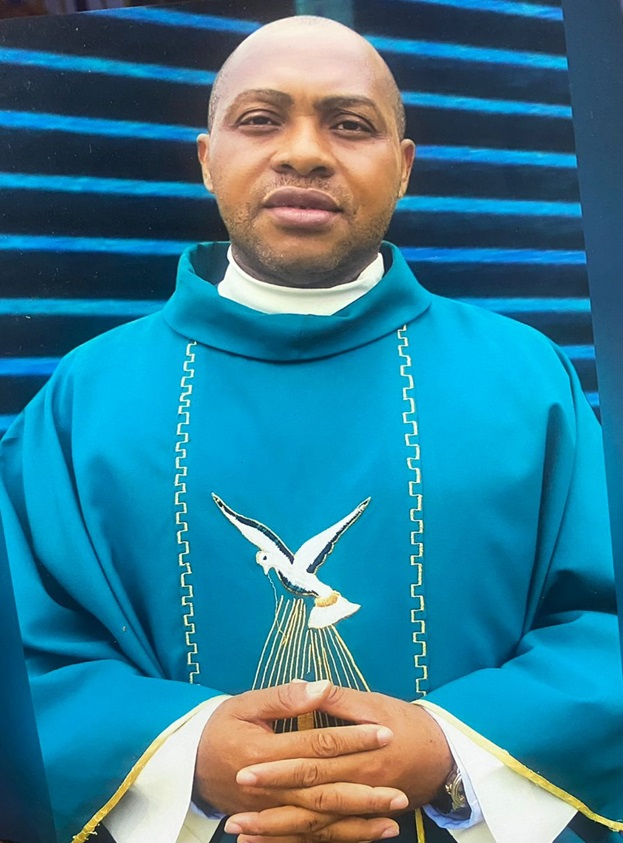
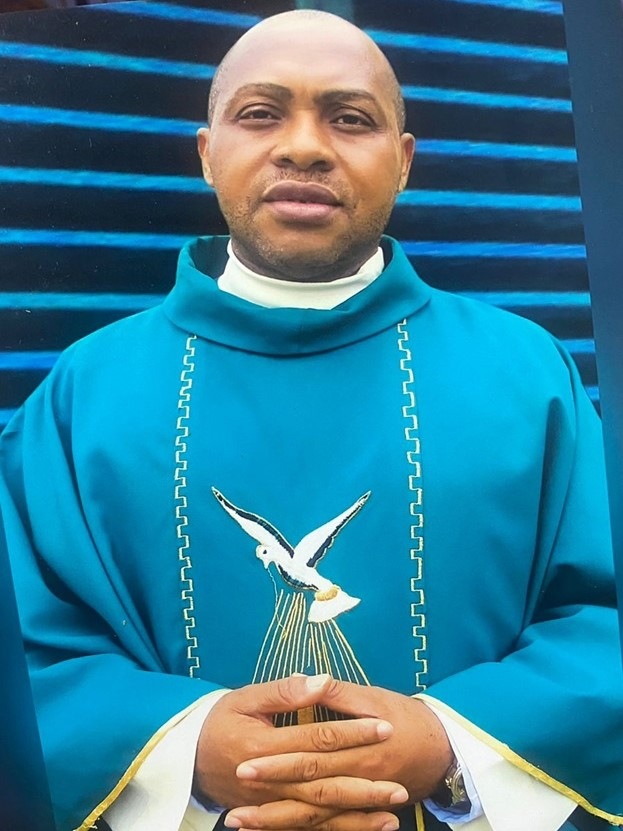
bug fix : priest photo update, information centre update

diff --git a/index.html b/index.html
@@ -45,7 +45,7 @@
         <ul>
           <li><a class="nav-link scrollto active" href="index.html">Home</a></li>
           <li><a class="nav-link scrollto" href="#about">Daily Readings</a></li>
-          <li><a class="nav-link scrollto" href="#services">Parish Events</a></li>
+          <li><a class="nav-link scrollto" href="#services">Information</a></li>
           <li><a class="nav-link scrollto " href="#portfolio">Photo Gallery</a></li>
           <li><a class="nav-link scrollto" href="#team">Priest</a></li>
           <li class="dropdown"><a href="#"><span>Ministry</span> <i class="bi bi-chevron-down"></i></a>
@@ -54,15 +54,16 @@
               <li class="dropdown"><a href="#"><span>Zones</span> <i class="bi bi-chevron-right"></i></a>
                 <ul>
                   <li><a href="#">Zone A</a></li>
-                  <li><a href="#">Zone B</a></li>
+                  <li><a href="#">B Zone</a></li>
                   <li><a href="#">Zone C</a></li>
                   <li><a href="#">Zone D</a></li>
                   <li><a href="#">Zone E</a></li>
+                  <li><a href="#">Zone F</a></li>
                 </ul>
               </li>
               <li><a href="#">Lay Apostolic Groups</a></li>
                   <li><a href="#">Faith formation</a></li>
-                  <li><a href="#">Fellowship</a></li>
+                  <li><a href="#">Communities</a></li>
                   <li><a href="#">Spiritual counseling</a></li>
                   <li><a href="#">Evangelism</a></li>
                   <li><a href="#">Parishoners</a></li>
@@ -88,15 +89,15 @@
 
     <div class="container" data-aos="zoom-out" data-aos-delay="100">
       <div class="row p-2">
-        <div class="col-xl-8 col-lg-8 mb-4">
+        <div class="col-xl-8 col-lg-8 mb-4 p-10">
           <h1>Welcome to St. Francis Catholic Church Benin City.</h1>
-          <h2>Lord make me an Instrument of your Peace</h2>
+          <h2>Constant And Preserving Recourse To Jesus In The Blessed Sacrament In Union with Mary, Queen Of The Most Holy Rosary.</h2>
           <a href="#about" class="btn-get-started scrollto"> <i class="bi bi-play"></i> Livestream</a>
           <a href="#about" class="btn-get-started scrollto"> <i class="bi bi-play"></i> Videos</a>
         </div>
         <div class="col-xl-4 col-lg-4 shadow-lg rounded p-3 bg-gradient flex text-center text" data-aos="fade-left" data-aos-delay="100">
           <h2 style="font-size: 28px;"><i class="fa-solid fa-clock text-white"></i> Sunday Masses: <br>6:30am | 9:00 am</h2><br>
-          <h2 style="font-size: 28px;"><i class="fa-solid fa-clock text-white"></i> Weekday Masses: <br>6:30am | 12:30pm | 6:00pm</h2>
+          <h2 style="font-size: 28px;"><i class="fa-solid fa-clock text-white"></i> Weekday Masses: <br>6:30am | 12:30pm | 5:30pm</h2>
           
         </div>
       </div>
@@ -108,13 +109,11 @@
   <main id="main">
 
 
-
     <!-- ======= About Section ======= -->
     <section id="about" class="about section-bg">
       <div class="container" data-aos="fade-up">
 
         <div class="row no-gutters">
-          
           <div class="content col-lg-6 col-sm-12 d-flex align-items-stretch">
             <div class="content">
               <h3>Our History</h3>
@@ -127,42 +126,25 @@
               </div> 
           </div>
           <div class="content col-lg-6 col-sm-12d-flex align-items-stretch p-3">
-            <div class="slideshow-container">
-              <!-- Full-width images with number and caption text -->
-              <div class="mySlides fade">
-                <div class="numbertext">1 / 3</div>
-                <img src="assets/img/Picture2.png" style="width:100%">
-                <div class="text-1">Image one</div>
+            
+              <div class="portfolio-details-slider swiper">
+                <div class="swiper-wrapper align-items-center">
+  
+                  <div class="swiper-slide">
+                    <img src="assets/img/Picture2.png" style="width: 100%">
+                  </div>
+  
+                  <div class="swiper-slide">
+                    <img src="assets/img/Picture3.png" style="width:100%">
+                  </div>
+  
+                  <div class="swiper-slide">
+                    <img src="assets/img/Picture6b.png" style="width:100%">
+                  </div>
+                </div>
+                <div class="swiper-pagination"></div>
               </div>
             
-              <div class="mySlides fade">
-                <div class="numbertext">2 / 3</div>
-                <img src="assets/img/Picture3.png" style="width:100%">
-                <div class="text-1">Image Two</div>
-              </div>
-            
-              <div class="mySlides fade">
-                <div class="numbertext">3 / 3</div>
-                <img src="assets/img/Picture6b.png" style="width:100%">
-                <div class="text-1">Image three</div>
-              </div>
-            
-              <!-- Next and previous buttons -->
-              <a class="prev" onclick="plusSlides(-1)">&#10094;</a>
-              <a class="next" onclick="plusSlides(1)">&#10095;</a>
-            </div>
-            <br>
-            
-            <!-- The dots/circles -->
-            <div style="text-align:center">
-              <span class="dot" onclick="currentSlide(1)"></span>
-              <span class="dot" onclick="currentSlide(2)"></span>
-              <span class="dot" onclick="currentSlide(3)"></span>
-            </div>
-          </div>
-          </div>
-          <!-- End .content-->
-          </div>
           </div>
           
         </div>
@@ -227,7 +209,7 @@
           <div class="col-lg-12 d-flex justify-content-center">
             <ul id="portfolio-flters">
               <li data-filter="*" class="filter-active">All</li>
-              <li data-filter=".filter-app">Mass</li>
+              <li data-filter=".filter-app">Sunday Mass</li>
               <li data-filter=".filter-card">A Day with the Lord</li>
               <li data-filter=".filter-web">First Friday</li>
             </ul>
@@ -361,9 +343,7 @@
               </div>
             </div>
           </div>
-
         </div>
-
       </div>
     </section><!-- End Portfolio Section -->
 
@@ -381,35 +361,36 @@
             <div class="icon-box" data-aos="fade-up" data-aos-delay="100">
               <i class="fa-solid fa-church"></i>
               <h4><a href="#">Mass Schedule</a></h4>
-              <p>Sundays & Weekdays - 6:30am | Afternoon mass - 12:30am</p>
+              <p>Sundays & Weekdays - 6:30am | Afternoon mass - 12:30pm</p>
             </div>
           </div>
           <div class="col-md-6 mt-4 mt-md-0">
             <div class="icon-box" data-aos="fade-up" data-aos-delay="200">
               <i class="fa-solid fa-church"></i>
               <h4><a href="#">Parish Office Hours</a></h4>
-              <p>Tuesdays : 8am - 12noon</p>
+              <p>Monday - Friday : 1pm, 5pm - 6pm</p>
             </div>
           </div>
           <div class="col-md-6 mt-4 mt-md-0">
             <div class="icon-box" data-aos="fade-up" data-aos-delay="300">
-              <i class="bi bi-book"></i>
-              <h4><a href="#">Catechist Classes</a></h4>
-              <p>Monday, wednesday and Friday by 4pm</p>
+              <i class="fa-solid fa-church"></i>
+              <h4><a href="#">Priest Office Hours</a></h4>
+              <p>Tuesday, Wednesday, Thursday 9am-12:30pm</p>
             </div>
           </div>
+      
           <div class="col-md-6 mt-4 mt-md-0">
             <div class="icon-box" data-aos="fade-up" data-aos-delay="400">
               <i class="fa-solid fa-person-praying"></i>
               <h4><a href="#">Confession</a></h4>
-              <p>After every morning mass & saturdays</p>
+              <p>After every morning mass, Saturdays (5pm-6pm)</p>
             </div>
           </div>
           <div class="col-md-6 mt-4 mt-md-0">
             <div class="icon-box" data-aos="fade-up" data-aos-delay="500">
-              <i class="fa-solid fa-hands-praying"></i>
-              <h4><a href="#">Holy hour/ Benediction</a></h4>
-              <p>Every sunday - 5pm  </p>
+              <i class="bi bi-book"></i>
+              <h4><a href="#">Catechism Classes</a></h4>
+              <p>Friday, Saturday, Sunday 3:30pm-5:30pm</p>
             </div>
           </div>
           <div class="col-md-6 mt-4 mt-md-0">
@@ -423,7 +404,7 @@
             <div class="icon-box" data-aos="fade-up" data-aos-delay="600">
               <i class="bi bi-people"></i>
               <h4><a href="#">Marriage Classes</a></h4>
-              <p>Tuesday and Wednesday by 4pm</p>
+              <p>Every Friday and Saturday by 4:30pm</p>
             </div>
           </div>
           <div class="col-md-6 mt-4 mt-md-0">
@@ -436,7 +417,7 @@
         </div>
 
       </div>
-    </section><!-- End Services Section -->
+    </section><!-- End Information -->
     
  <!-- ======= Homilies Section ======= -->
  <section id="testimonials" class="testimonials">
@@ -477,7 +458,7 @@
               </p>
             </div>
           </div>
-        </div><!-- End testimonial item -->
+        </div><!-- End homily item -->
 
         <div class="swiper-slide">
           <div class="testimonial-wrap">
@@ -492,7 +473,7 @@
               </p>
             </div>
           </div>
-        </div><!-- End testimonial item -->
+        </div><!-- End homily item -->
 
         <div class="swiper-slide">
           <div class="testimonial-wrap">
@@ -507,7 +488,7 @@
               </p>
             </div>
           </div>
-        </div><!-- End testimonial item -->
+        </div><!-- End homily item -->
 
         <div class="swiper-slide">
           <div class="testimonial-wrap">
@@ -522,17 +503,17 @@
               </p>
             </div>
           </div>
-        </div><!-- End testimonial item -->
+        </div><!-- End homily item -->
 
       </div>
       <div class="swiper-pagination"></div>
     </div>
 
   </div>
-</section><!-- End Testimonials Section -->
+</section><!-- End Homilies -->
 
 
- <!-- ======= Tabs Section ======= -->
+ <!-- ======= Councils ======= -->
  <section id="tabs" class="tabs">
   <div class="container" data-aos="fade-up">
 
@@ -672,7 +653,7 @@
     </div>
 
   </div>
-</section><!-- End Tabs Section -->
+</section><!-- End councils -->
 
    
 
@@ -694,7 +675,7 @@
               <h4>Calling all gentlemen of faith! Have you heard about our Catholic Men's Organization? <br>
                 <br>Overall, the Catholic Men's Organization plays a vital role in fostering a community of faith, service, and fraternity among men within the Church. By empowering men to live out their faith with courage and integrity, the organization contributes to the building of a stronger, more vibrant Catholic community grounded in love, compassion, and solidarity.</h4> 
               <div class="btn-wrap">
-                <a href="#" class="btn-buy">Read More</a>
+                <a href="#" class="btn-buy">Join</a>
               </div>
             </div>
           </div>
@@ -705,7 +686,7 @@
               <h4>The Catholic Women's Organization (CWO) is a vibrant and integral part of the Catholic Church community, comprising women who are dedicated to serving their faith, their families, and their communities. Founded on the principles of faith, service, and sisterhood, the CWO provides a platform for women to come together in fellowship, prayer, and action.
                 <br> The Catholic Women's Organization stands as a testament to the power of women's faith, dedication, and service in building a better world guided by the principles of love, compassion, and justice.</h4> 
               <div class="btn-wrap">
-                <a href="#" class="btn-buy">Read More</a>
+                <a href="#" class="btn-buy">Join</a>
               </div>
             </div>
           </div>
@@ -716,7 +697,7 @@
               <h4>The Catholic Youth Organization (CYON) is a dynamic and vibrant organization within the Catholic Church that aims to engage young people in their faith, empower them to live as disciples of Jesus Christ, and inspire them to become leaders in their communities.<br>
                 <br> Overall, the Catholic Youth Organization plays a vital role in nurturing the faith, leadership, and service of young Catholics, empowering them to live out their faith authentically and to be agents of positive change in the world.</h4> 
               <div class="btn-wrap">
-                <a href="#" class="btn-buy">Read More</a>
+                <a href="#" class="btn-buy">Join</a>
               </div>
             </div>
           </div>
@@ -724,7 +705,7 @@
         </div>
 
       </div>
-    </section><!-- End Pricing Section -->
+    </section><!-- Organization Section  -->
 
     <!-- ======= Frequently Asked Questions Section ======= -->
     <section id="faq" class="faq">
@@ -800,20 +781,16 @@
 
         <div class="section-title">
           <h2>Priests</h2>
-          <p>Magnam dolores commodi suscipit. Necessitatibus eius consequatur ex aliquid fuga eum quidem. Sit sint consectetur velit. Quisquam quos quisquam cupiditate. Et nemo qui impedit suscipit alias ea.</p>
         </div>
-
         <div class="row">
-
           <div class="col-lg-4 col-md-6 d-flex align-items-stretch">
             <div class="member" data-aos="fade-up" data-aos-delay="100">
               <div class="member-img">
                 <img src="assets/img/obinyan.jpg" class="img-fluid" alt="">
-                <div class="social">
-                  <a href=""><i class="bi bi-twitter"></i></a>
-                  <a href=""><i class="bi bi-facebook"></i></a>
-                  <a href=""><i class="bi bi-instagram"></i></a>
-                  <a href=""><i class="bi bi-linkedin"></i></a>
+                <div class="social">                
+                  <a href="https://shorturl.at/PriAO"><i class="bi bi-facebook"></i></a>
+                  <a href="https://shorturl.at/z8Hip"><i class="bi bi-instagram"></i></a>
+                  <a href="https://shorturl.at/SjKsg"><i class="bi bi-linkedin"></i></a>
                 </div>
               </div>
               <div class="member-info">
@@ -826,7 +803,7 @@
           <div class="col-lg-4 col-md-6 d-flex align-items-stretch">
             <div class="member" data-aos="fade-up" data-aos-delay="200">
               <div class="member-img">
-                <img src="assets/img/obinyan.jpg" class="img-fluid" alt="">
+                <img src="assets/img/emma.jpg" class="img-fluid" alt="">
                 <div class="social">
                   <a href=""><i class="bi bi-twitter"></i></a>
                   <a href=""><i class="bi bi-facebook"></i></a>
@@ -853,16 +830,12 @@
                 </div>
               </div>
               <div class="member-info">
-                <h4>Rev. Fr. Barnabas</h4>
+                <h4>Rev. Fr. Barnabas Okafor</h4>
                 <span>Priet in Residence</span>
               </div>
             </div>
           </div>
-
-          
-
         </div>
-
       </div>
     </section><!-- End Team Section -->
 
@@ -1007,7 +980,6 @@
         <a href="#" class="twitter"><i class="bx bxl-twitter"></i></a>
         <a href="#" class="facebook"><i class="bx bxl-facebook"></i></a>
         <a href="#" class="instagram"><i class="bx bxl-instagram"></i></a>
-        <a href="#" class="google-plus"><i class="bx bxl-skype"></i></a>
         <a href="#" class="linkedin"><i class="bx bxl-linkedin"></i></a>
       </div>
     </div>

diff --git a/assets/css/style.css b/assets/css/style.css
@@ -369,6 +369,7 @@ h6 {
   background-size: cover;
   position: relative;
   padding-top: 82px;
+  
 }
 
 #hero:before {
